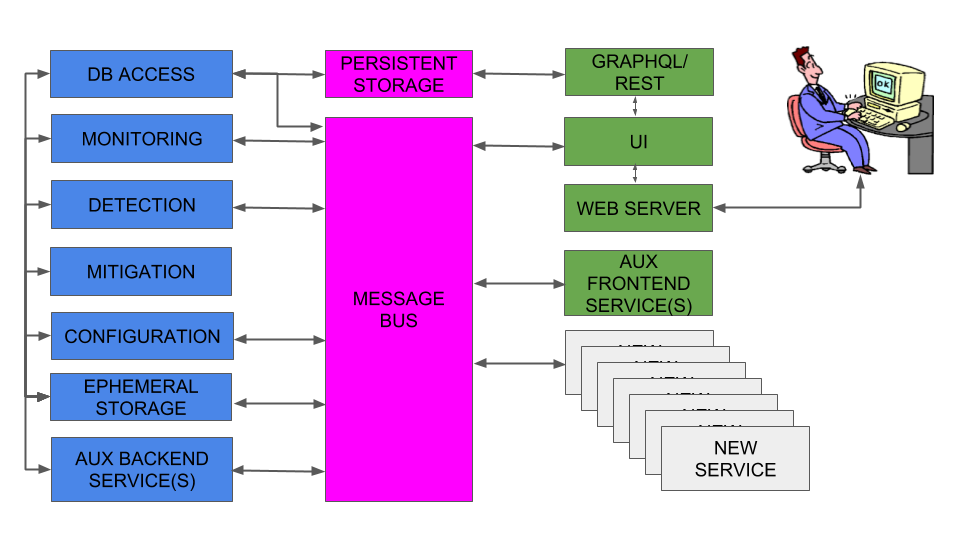
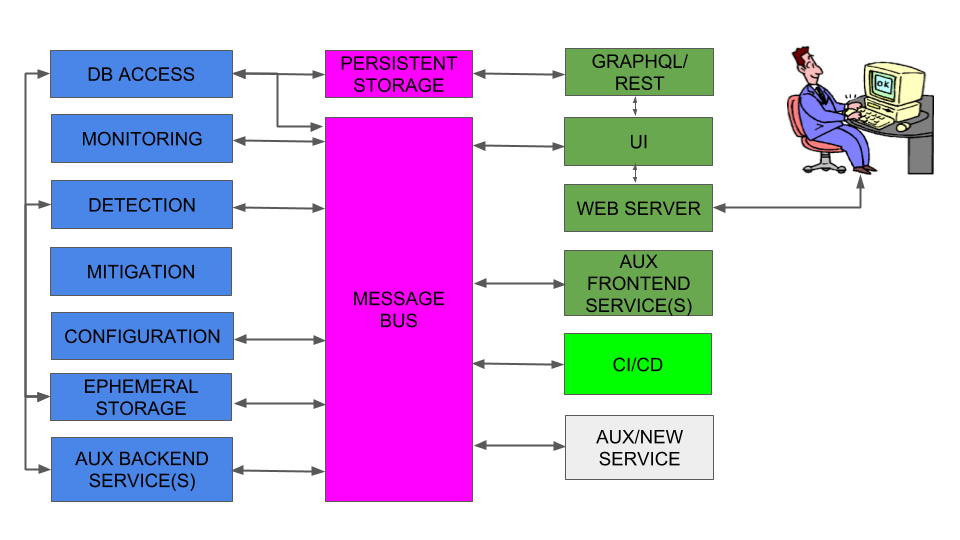
minor updates in system overview and README [ci skip]

diff --git a/README.md b/README.md
@@ -70,6 +70,7 @@ containing information about: prefixes, ASNs, monitors and ARTEMIS rules ("ASX o
 * Support for both IPv4 and IPv6 prefixes.
 * Support for both mobile and desktop environments (UI).
 * Modularity/extensibility by design.
+* CI/CD.
 
 ## System Architecture
 
